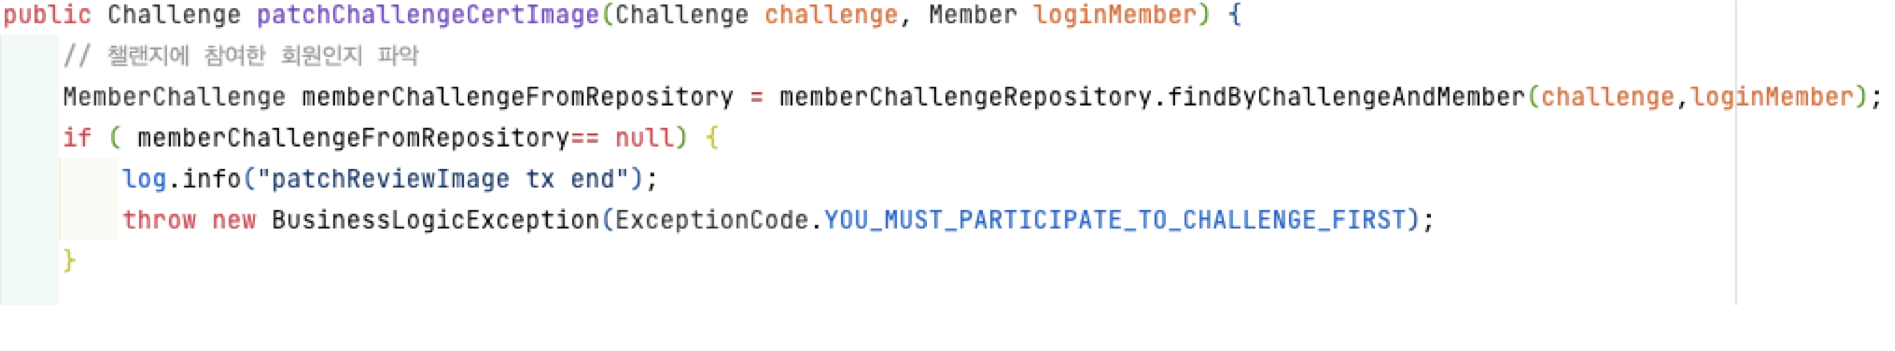
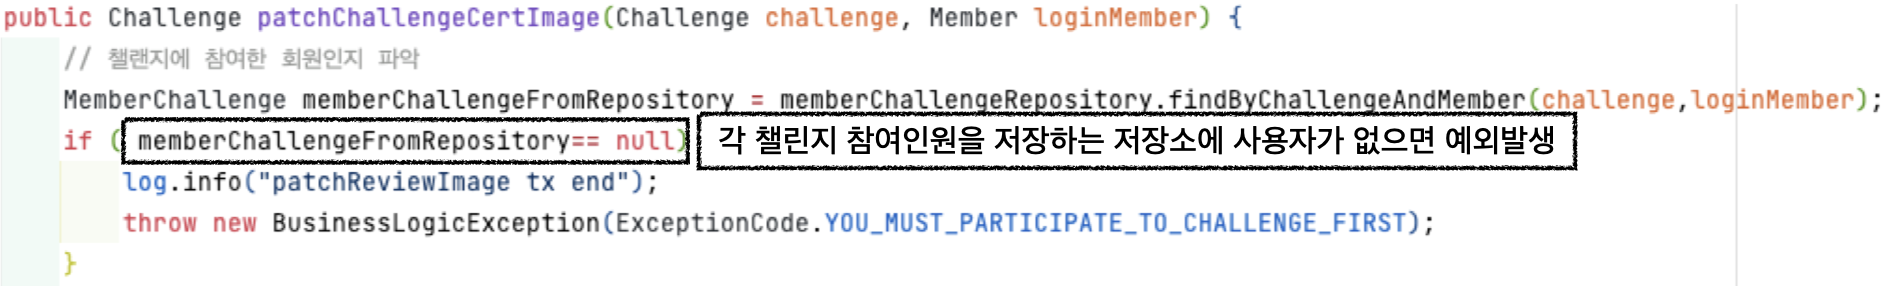
edit img

Changed region(s): [[0.0, 0.0, 0.9979, 0.6713], [0.0312, 0.6993, 0.7796, 0.8392], [0.0312, 0.8951, 0.0624, 0.951]]

diff --git a/README.md b/README.md
@@ -63,7 +63,7 @@
 
 ### 4.4 ImageService [코드링크-ImageService 내 patchChallengeCertImage 메서드](https://github.com/dbgys1127/wiselife/blob/main/server/wiselife/src/main/java/be/wiselife/image/service/ImageService.java) 
 
- 1. 인증 가능 시간인가? <details><summary><b>코드 펼치기</b></summary><img src ="img/인증가능시간확인.001.png" width="100%" height="auto"/></details>
+ 1. 인증 가능 시간인가? <details><summary><b>코드 펼치기</b></summary><img src ="img/인증가능시간확인.001.001.png" width="100%" height="auto"/></details>
     - 사용자가 사진 등록하는 시간이 챌린지 인증시간이 아니면, 예외 발생
 
  2. 챌린지 참여회원인가?<details><summary><b>코드 펼치기</b></summary><img src ="img/참여회원.001.png" width="100%" height="auto"/></details>
